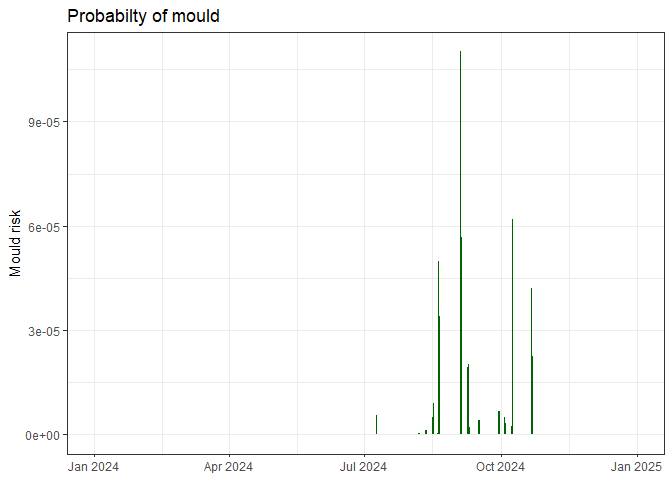
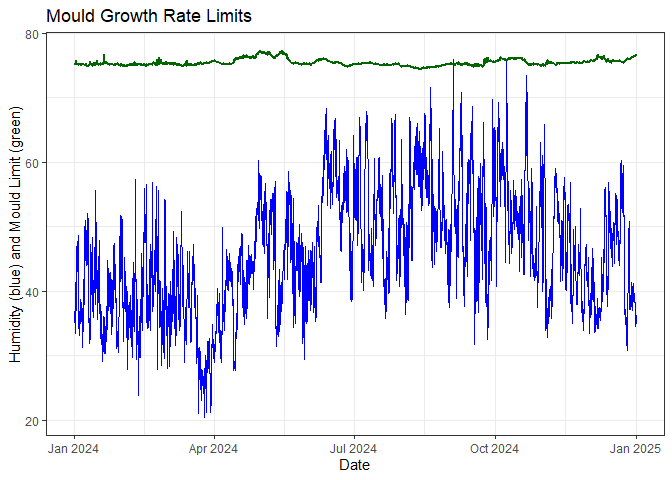
edit

diff --git a/README.md b/README.md
@@ -115,10 +115,12 @@ mydata |>
 
 ``` r
 mydata |>
-  calcMould(Temp = "Temp", RH = "RH") |>
+  mutate(Mould = calcMould_Zeng(Temp, RH)) |>
   ggplot() +
-  geom_area(aes(Date, mould), fill = "darkgreen", size = 1) +
-  labs(title = "Probabilty of mould", x = NULL, y = "Mould risk") + 
+  geom_line(aes(Date, RH), col = "blue") +
+  geom_line(aes(Date, Mould), col = "darkgreen", size = 1) +
+  labs(title = "Mould Growth Rate Limits", 
+       y = "Humidity (blue) and Mould Limit (green)") + 
   theme_bw()
 ```
 
